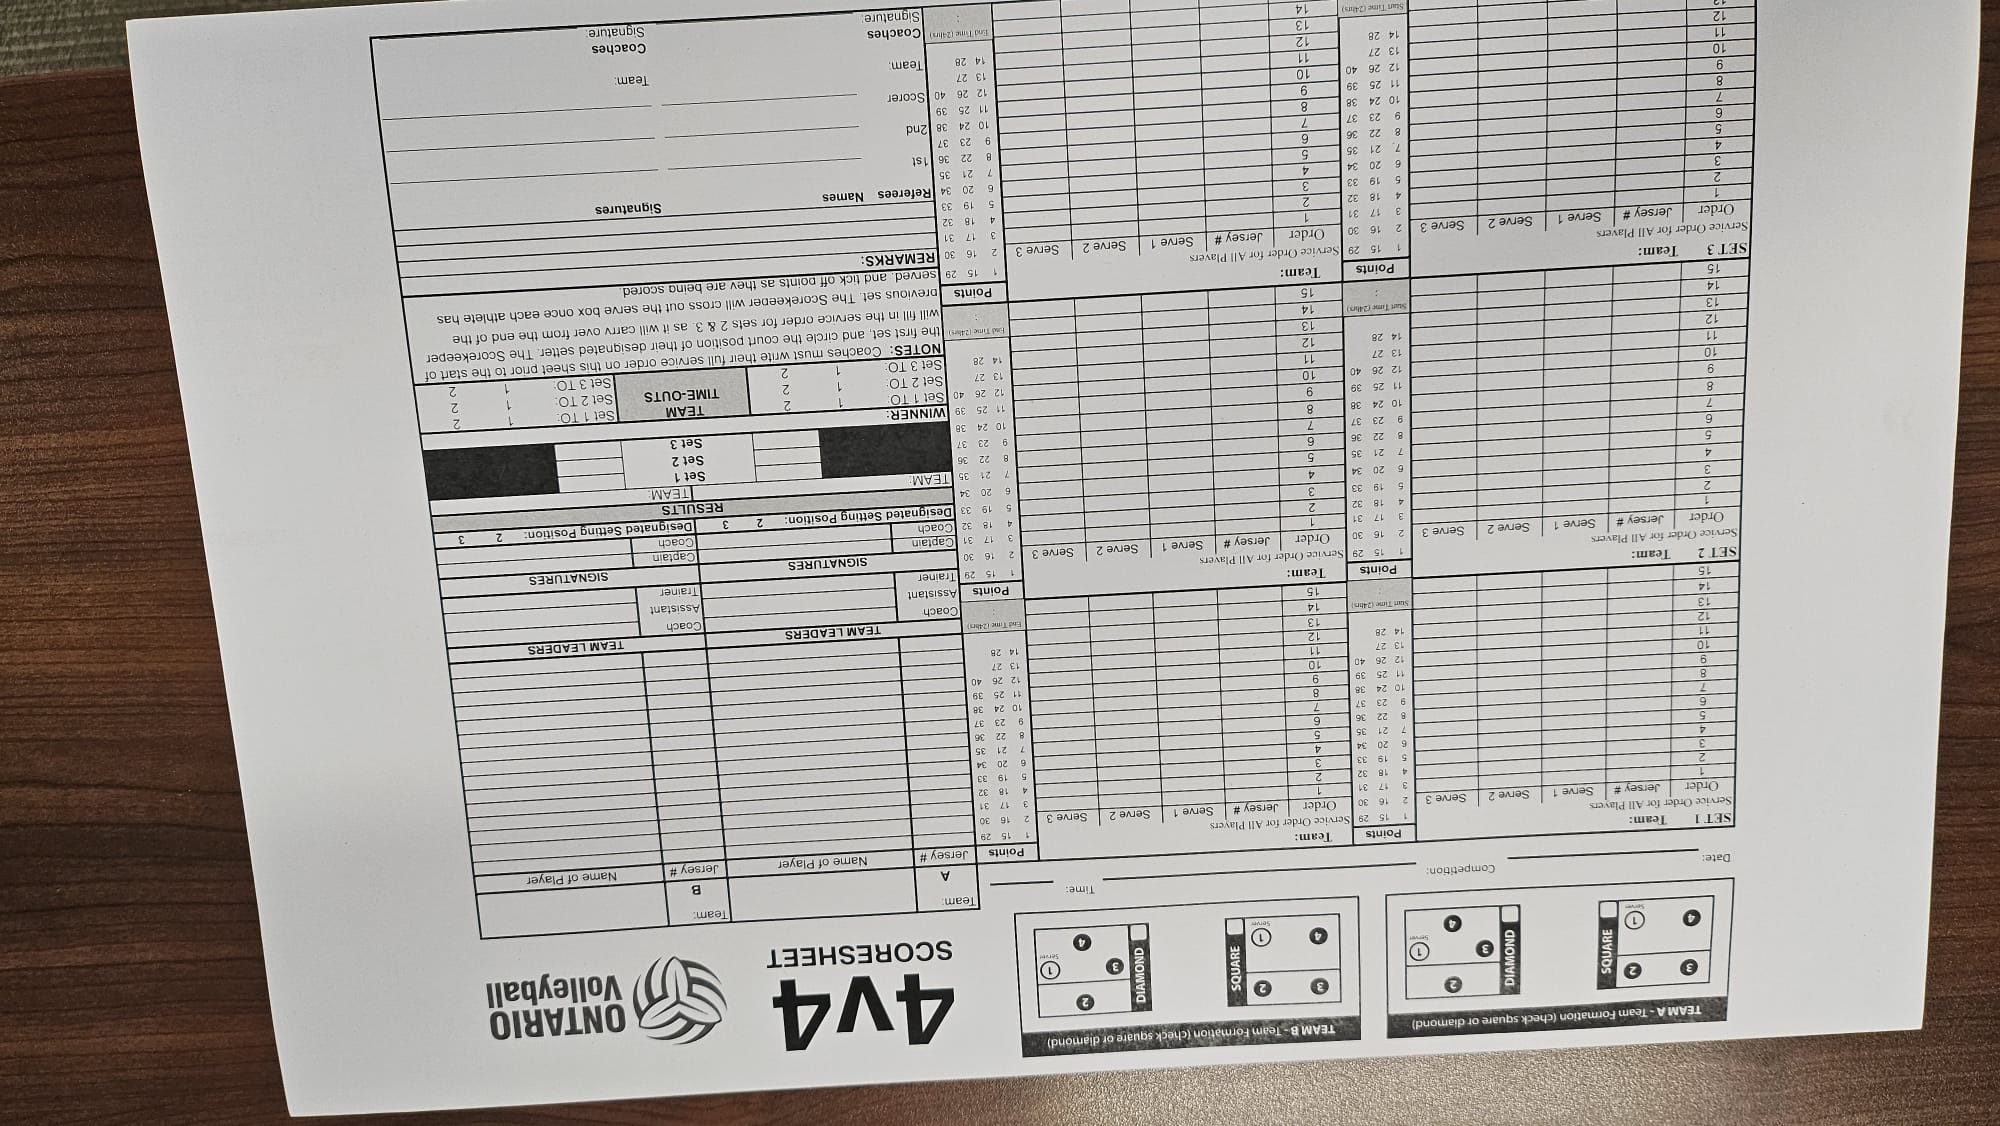
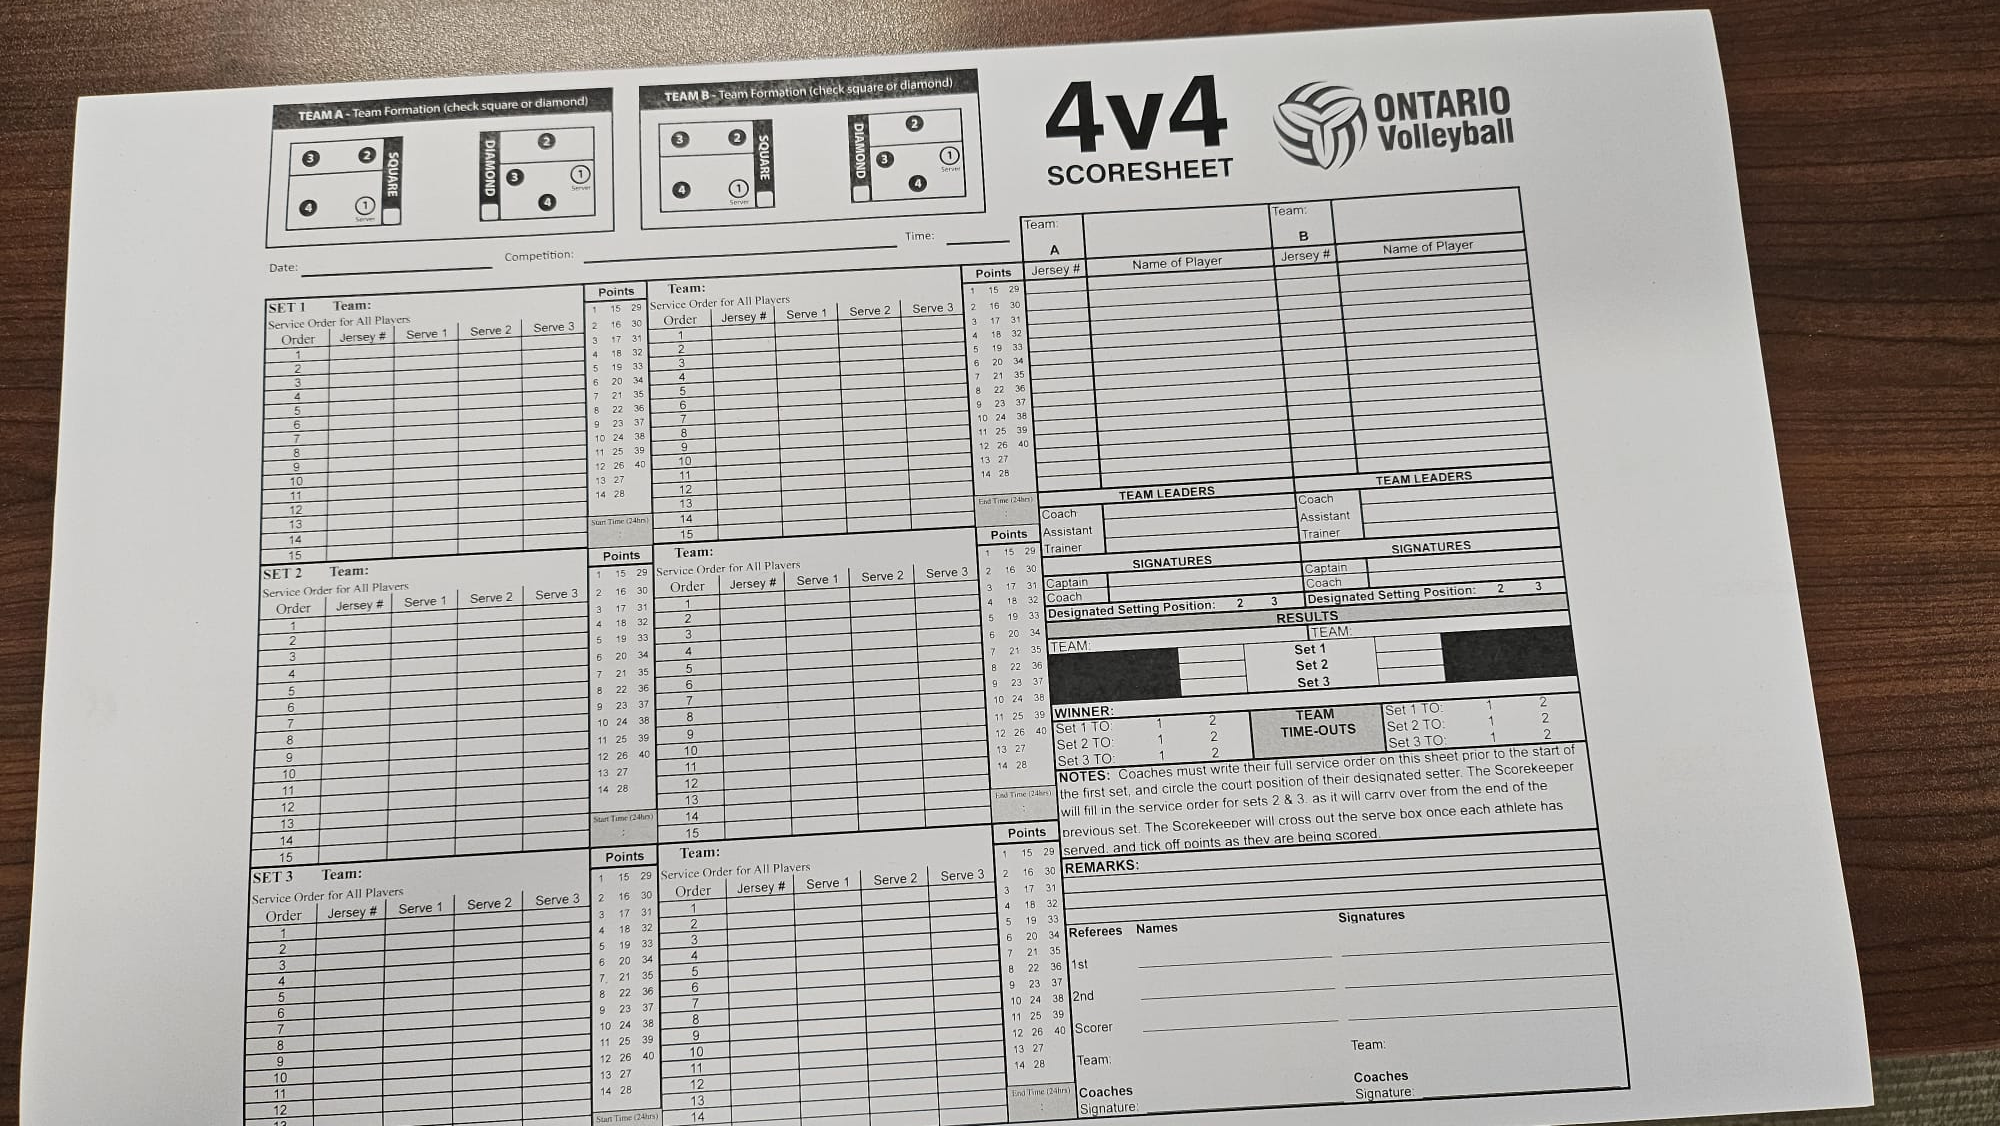
Changes

diff --git a/src/routes/shop_.$id.tsx b/src/routes/shop_.$id.tsx
@@ -4,4 +4,4 @@ import { AppShell } from "@/components/AppShell";
 import { Button } from "@/components/ui/button";
 import { PRODUCTS } from "@/lib/catalog";
 export const Route=createFileRoute('/shop_/$id')({loader:({params})=>{const product=PRODUCTS.find(p=>p.id===params.id);if(!product)throw notFound();return product;},head:({loaderData})=>({meta:[{title:`${loaderData?.title??'Product'} — OVA Companion`},{name:'description',content:loaderData?.title??'Official OVA store product.'},{property:'og:title',content:loaderData?.title??'OVA product'},{property:'og:description',content:'Official OVA product details and store link.'},{property:'og:type',content:'product'},{name:'twitter:card',content:'summary'}]}),component:Product});
-function Product(){const p=Route.useLoaderData();return <AppShell title="Official OVA Store"><Link to="/shop" className="inline-flex min-h-11 items-center gap-2 font-semibold text-primary"><ArrowLeft aria-hidden/>Back to shop</Link><div className="grid gap-8 md:grid-cols-2"><div className="aspect-square border bg-card p-8">{p.image?<img src={p.image} alt={p.title} width={500} height={500} className={`size-full object-contain${p.id==='6v6-volleyball-scoresheets'||p.id==='4v4-scoresheets-book-of-30'?' shop-scoresheet-detail':''}`}/>:<ShoppingBag aria-hidden className="size-full text-muted-foreground"/>}</div><div className="space-y-5"><p className="text-sm font-semibold uppercase text-primary">{p.category}</p><h2 className="text-4xl font-semibold">{p.title}</h2><p className="text-2xl font-semibold">${p.price} CAD</p><p className="whitespace-pre-line">{p.description}</p>{p.available?<Button asChild size="lg"><a href={p.url} target="_blank" rel="noopener noreferrer">Shop at OVA<ExternalLink aria-hidden/></a></Button>:<><Button disabled>Currently unavailable</Button><a href={p.url} target="_blank" rel="noopener noreferrer" className="block min-h-11 font-semibold text-primary underline">Check official stock</a></>}<p className="text-sm text-muted-foreground">Checkout, delivery and current stock are handled by the official OVA store.</p></div></div></AppShell>}
+function Product(){const p=Route.useLoaderData();return <AppShell title="Official OVA Store"><Link to="/shop" className="inline-flex min-h-11 items-center gap-2 font-semibold text-primary"><ArrowLeft aria-hidden/>Back to shop</Link><div className="grid gap-8 md:grid-cols-2"><div className="aspect-square border bg-card p-8">{p.image?<img src={p.image} alt={p.title} width={500} height={500} className={`size-full object-contain`}/>:<ShoppingBag aria-hidden className="size-full text-muted-foreground"/>}</div><div className="space-y-5"><p className="text-sm font-semibold uppercase text-primary">{p.category}</p><h2 className="text-4xl font-semibold">{p.title}</h2><p className="text-2xl font-semibold">${p.price} CAD</p><p className="whitespace-pre-line">{p.description}</p>{p.available?<Button asChild size="lg"><a href={p.url} target="_blank" rel="noopener noreferrer">Shop at OVA<ExternalLink aria-hidden/></a></Button>:<><Button disabled>Currently unavailable</Button><a href={p.url} target="_blank" rel="noopener noreferrer" className="block min-h-11 font-semibold text-primary underline">Check official stock</a></>}<p className="text-sm text-muted-foreground">Checkout, delivery and current stock are handled by the official OVA store.</p></div></div></AppShell>}

diff --git a/src/styles.css b/src/styles.css
@@ -208,9 +208,6 @@ section[aria-labelledby="sponsorship"] ul { background: var(--paper); padding: 1
 .shop-product:hover .shop-image img { transform: scale(1.04); }
 .shop-image--horizontal img { position: absolute; width: calc(100cqh - 36px); height: calc(100cqw - 36px); transform: rotate(90deg); }
 .shop-product:hover .shop-image--horizontal img { transform: rotate(90deg) scale(1.04); }
-.shop-image--scoresheet img, .shop-scoresheet-detail { transform: rotate(180deg); }
-.shop-product:hover .shop-image--scoresheet img { transform: rotate(180deg) scale(1.04); }
-@media (prefers-reduced-motion: reduce) { .shop-product:hover .shop-image--scoresheet img { transform: rotate(180deg); } }
 .shop-unavailable { position: absolute; inset: 0; display: flex; align-items: center; justify-content: center; background: color-mix(in oklab, var(--card) 62%, transparent); backdrop-filter: blur(6px) saturate(70%); color: var(--foreground); font-weight: 700; font-size: 1rem; }
 @media (min-width: 640px) { .shop-grid { gap: 22px; } .shop-image { height: 180px; } }
 @media (prefers-reduced-motion: reduce) { .shop-product:hover, .shop-product:focus-visible, .shop-product:active, .shop-product:hover .shop-image img { transform: none; } .shop-product:hover .shop-image--horizontal img { transform: rotate(90deg); } }

diff --git a/src/routes/shop.tsx b/src/routes/shop.tsx
@@ -6,7 +6,6 @@ import { Button } from "@/components/ui/button";
 import { PRODUCTS } from "@/lib/catalog";
 
 const CATEGORIES = ['Game Day', 'Coaching & Development', 'Support OVA'] as const;
-const SCORESHEET_IMAGES = ['6v6-volleyball-scoresheets', '4v4-scoresheets-book-of-30'];
 const HORIZONTAL_IMAGES = ['officials-sanction-card-set'];
 
 export const Route = createFileRoute('/shop')({
@@ -26,7 +25,7 @@ export const Route = createFileRoute('/shop')({
 function ProductCard({ p }: { p: (typeof PRODUCTS)[number] }) {
   return (
     <Link to="/shop/$id" params={{ id: p.id }} className="shop-product group flex min-w-0 flex-col overflow-hidden rounded-lg border bg-card">
-      <div className={`shop-image${SCORESHEET_IMAGES.includes(p.id) ? ' shop-image--scoresheet' : HORIZONTAL_IMAGES.includes(p.id) ? ' shop-image--horizontal' : ''}`}>
+      <div className={`shop-image${HORIZONTAL_IMAGES.includes(p.id) ? ' shop-image--horizontal' : ''}`}>
         {p.image ? <img src={p.image} alt={p.title} loading="lazy" width={400} height={400} /> : <ShoppingBag aria-hidden className="size-12 text-muted-foreground" />}
         {!p.available && <span className="shop-unavailable">unavailable</span>}
       </div>
